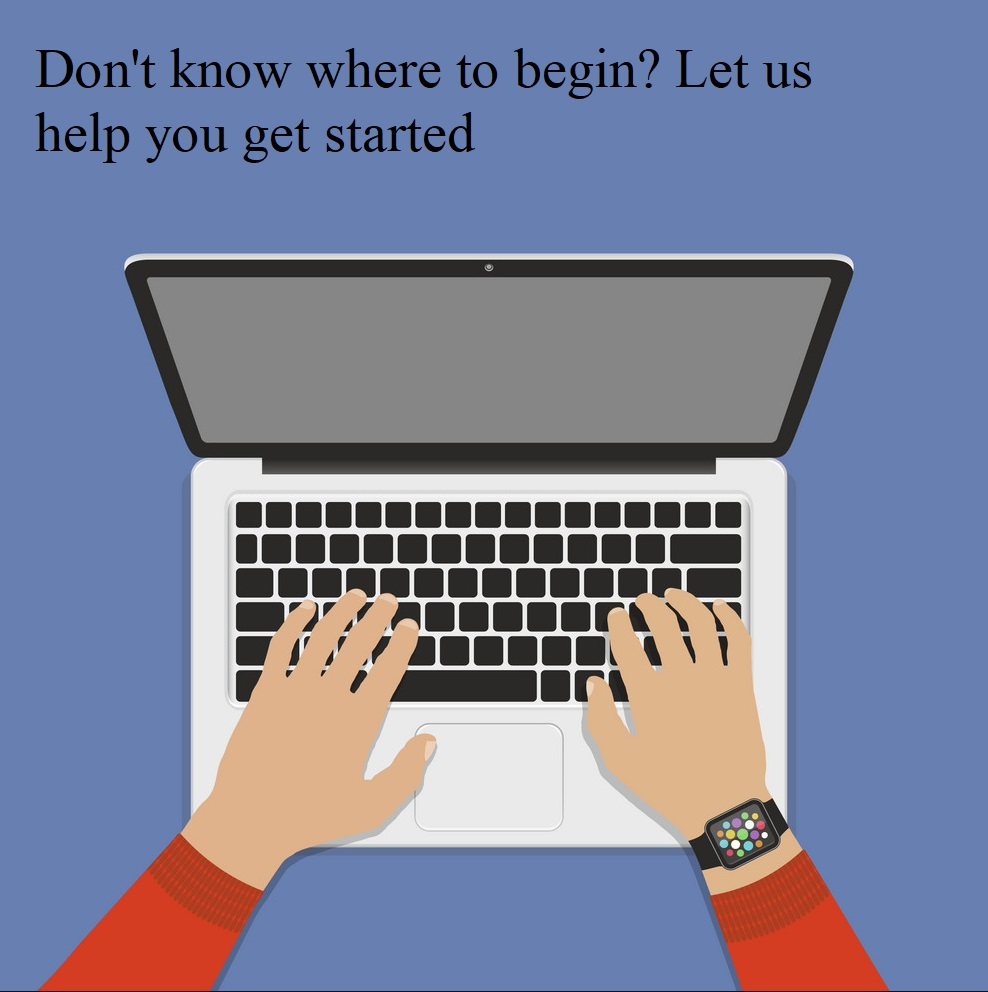
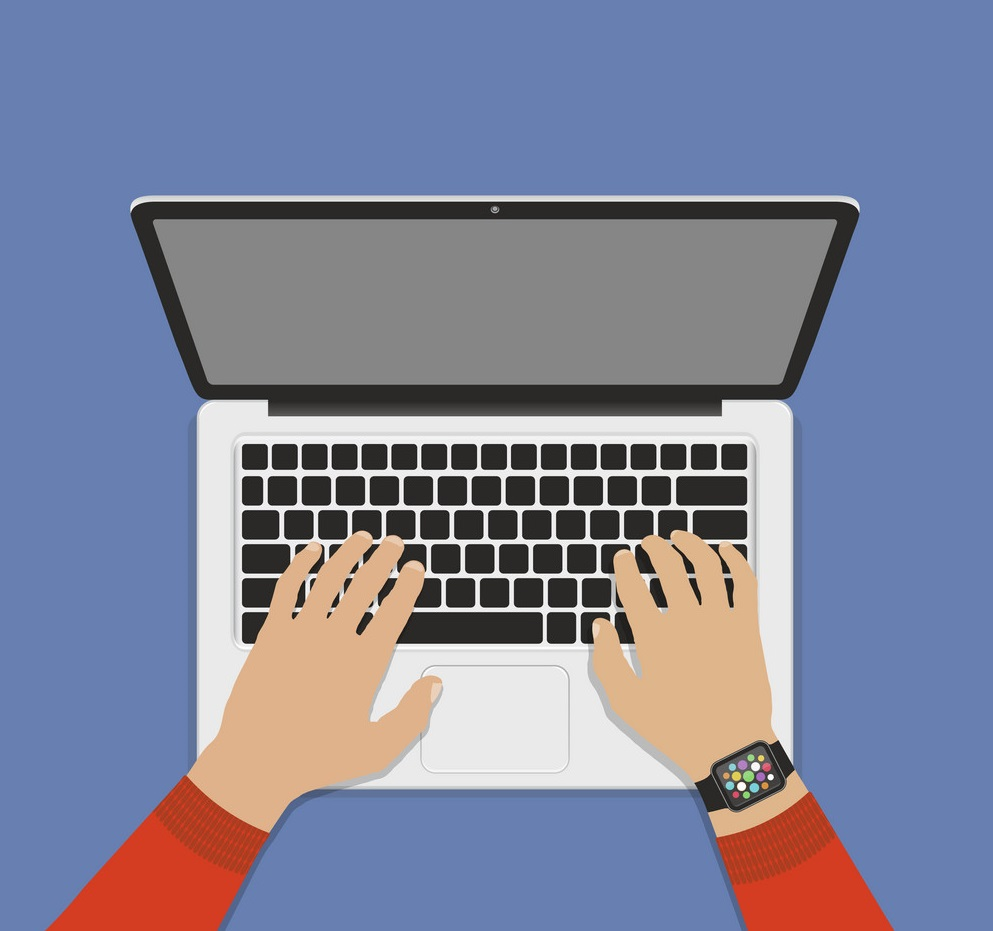
Final cosmetic changes for the Intro HTML

diff --git a/ida-chatbot/src/app/components/intro/intro.component.html b/ida-chatbot/src/app/components/intro/intro.component.html
@@ -2,8 +2,12 @@
   <mat-tab label="Intelligent Data Assistant">
     <div class="ida-align-body">
       <h1 align="center">Welcome to Intelligent Chat Assistant!</h1>
+      <div class="container">
       <img id="begin" class="ida-intro-img" src="/assets/begin-tutorial-img.jpeg"
-           alt="User Tutorial" style="width:70%;">
+           alt="User Tutorial" style="width:80%;">
+        <div class="top-left">Don't know where to begin? Let us
+        help you get started.</div>
+      </div>
       <h2>Overview</h2>
       <p>This tutorial shows you hot to perform basic data-science workflow steps on a
         data set, following is the list of contents:</p>
@@ -35,6 +39,10 @@
           <li>Tab Header</li>
         </ol>
         <li>Chat Window</li>
+        <ol>
+          <li>Message Window</li>
+          <li>Chat History</li>
+        </ol>
       </ol>
       <br>
       <h3 id="load-data-text">Load a Data Set</h3>
@@ -75,9 +83,9 @@
         IDA also allows user to define a filtering criteria on the data for which
         the BarChart is requested</p>
       <figure>
-      <img id="bar-graph-view-img" class="ida-intro-img" src="/assets/bar-graph-view-img.png"
-           alt="Bar Graph" style="width:80%;">
-      <figcaption align="center">Image.4 - Bar graph visualisation</figcaption>
+        <img id="bar-graph-view-img" class="ida-intro-img" src="/assets/bar-graph-view-img.png"
+             alt="Bar Graph" style="width:80%;">
+        <figcaption align="center">Image.4 - Bar graph visualisation</figcaption>
       </figure>
       <!-- TODO: align to center-->
       <p align="justify">Let us explain it more clearly using an example,
@@ -142,29 +150,87 @@
         <b>User:</b> What are the available clustering algorithms?
         <br>
         <b>Assistant:</b> Here are the list of algorithms, please select one to proceed
-                          [Hint]
-                          - K-means
-                          - Affinity Propogation
+        [Hint]
+        - K-means
+        - Affinity Propogation
         <br>
-        <b>User:</b> algo is kmeans
+        <b>User:</b> I would like to run the KMeans algorithm on the current table
         <br>
-        <b>Assistant:</b> Following is the list of parameters for
+        <b>Assistant:</b> Following is the list of parameters for " kmeans " :
         <br>
-        <b>User:</b> Optional is init
-        <br>
-        <b>Assistant:</b> Your params are:
-        <br>
-        <b>User:</b> Set init as random
-        <br>
-        <b>Assistant:</b> All the values have been taken, Enter the column names for clustering
-        <br>
-        <b>User:</b>Columns are cinema, gasoline and wine
-        <br>
-        <b>Assistant:</b> Which Column is the Key Label Feature?
-        <br>
-        <b>User:</b>Key feature is city
-        <br>
-        <b>Assistant:</b>Clustered data is displayed! You can access it in the Main view</p>
+      <ol>
+        <li>init [Optional]</li>
+        <li>n_init [Optional]</li>
+        <li>max_iter [Optional]</li>
+        <li>precompute_distances [Optional]</li>
+        <li>verbose [Optional]</li>
+        <li>random_state [Optional]</li>
+        <li>copy_x [Optional]</li>
+      </ol>
+      <br>
+      Which optional parameters you want?
+      <br>
+      [HINT : Optionals are .......]
+      <br>
+      <b>User:</b> Optional parameters should be init, n_init and tol
+      <br>
+      <b>Assistant:</b> Your params are:
+      <ol>
+        <li>init Type : k-means++, random, an ndarray</li>
+        <li>n_clusters Type : int</li>
+        <li>n_jobs Type : int</li>
+      </ol>
+      Enter values for the parameters
+
+      [HINT : Set parameter as ...]
+
+      <br>
+      <b>User:</b> Set n_clusters as 5
+      <br>
+      <b>Assistant:</b> Value Stored, Enter next Value
+      <ol>
+        <li>n_jobs Type : int</li>
+        <li>init Type : int</li>
+        <li>n_init Type : int</li>
+        <li>n_tol Type: float</li>
+      </ol>
+      <br>
+      <b>User:</b> Set n_jobs as 8
+      <br>
+      <b>Assistant:</b> Value Stored, Enter next Value
+      <ol>
+        <li>init Type : int</li>
+        <li>n_init Type : int</li>
+        <li>n_tol Type: float</li>
+      </ol>
+      <br>
+      <b>User:</b> Set init as random
+      <br>
+      <b>Assistant:</b> Value Stored, Enter next Value
+      <ol>
+
+        <li>n_init Type : int</li>
+        <li>n_tol Type: float</li>
+      </ol>
+      <br>
+      <b>User:</b> Set n_init as 5
+      <br>
+      <b>Assistant:</b> Value Stored, Enter next Value
+      <ol>
+        <li>n_tol Type: float</li>
+      </ol>
+      <br>
+      <b>User:</b> Set tol as 3
+      <br>
+      <b>Assistant: </b>All the values have been taken, Enter the clustering features
+      <br>
+      <b>User:</b> Clustering features are wine, cinema and gasoline
+      <br>
+      <b>Assistant:</b> Which Column is Key Label Feature?
+      <br>
+      <b>User: </b> Label feature should be city
+      <br>
+      <b>Assistant:</b> Clustered data is displayed! You can access it in the Main view
     </div>
   </mat-tab>
 

diff --git a/ida-chatbot/src/app/components/intro/intro.component.css b/ida-chatbot/src/app/components/intro/intro.component.css
@@ -14,8 +14,20 @@ ol ol ol{
 }
 
 .ida-align-body{
-  margin-top: 80px;
+  margin-top: 30px;
   margin-bottom: 80px;
   margin-right: 80px;
   margin-left: 80px;
+}
+.container {
+  position: relative;
+  text-align: center;
+  color: white;
+}
+
+.top-left {
+  position: absolute;
+  top: 38px;
+  left: 79px;
+  font-size: 18px;
 }
